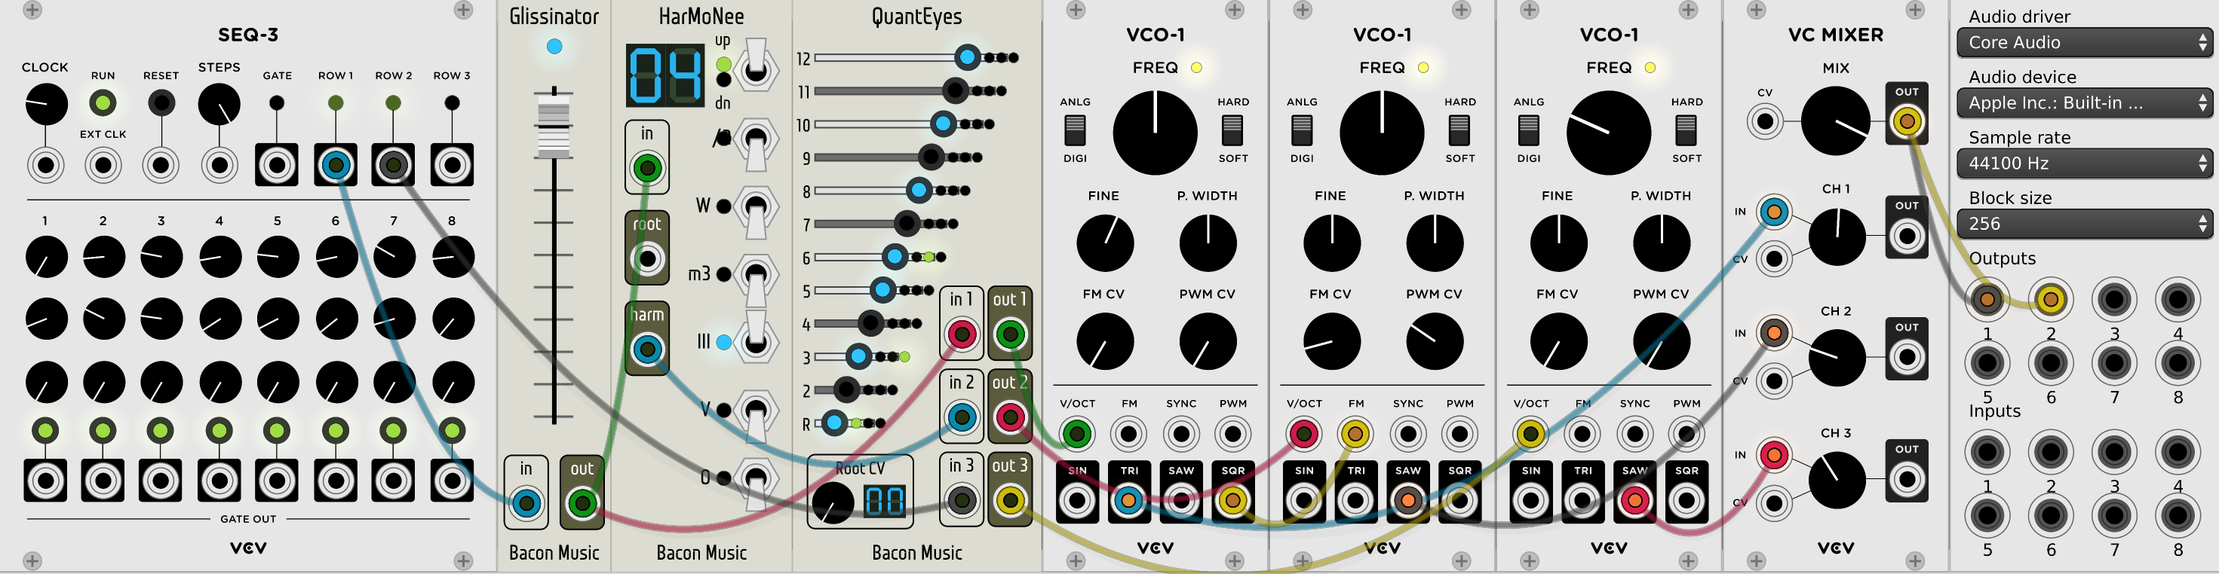
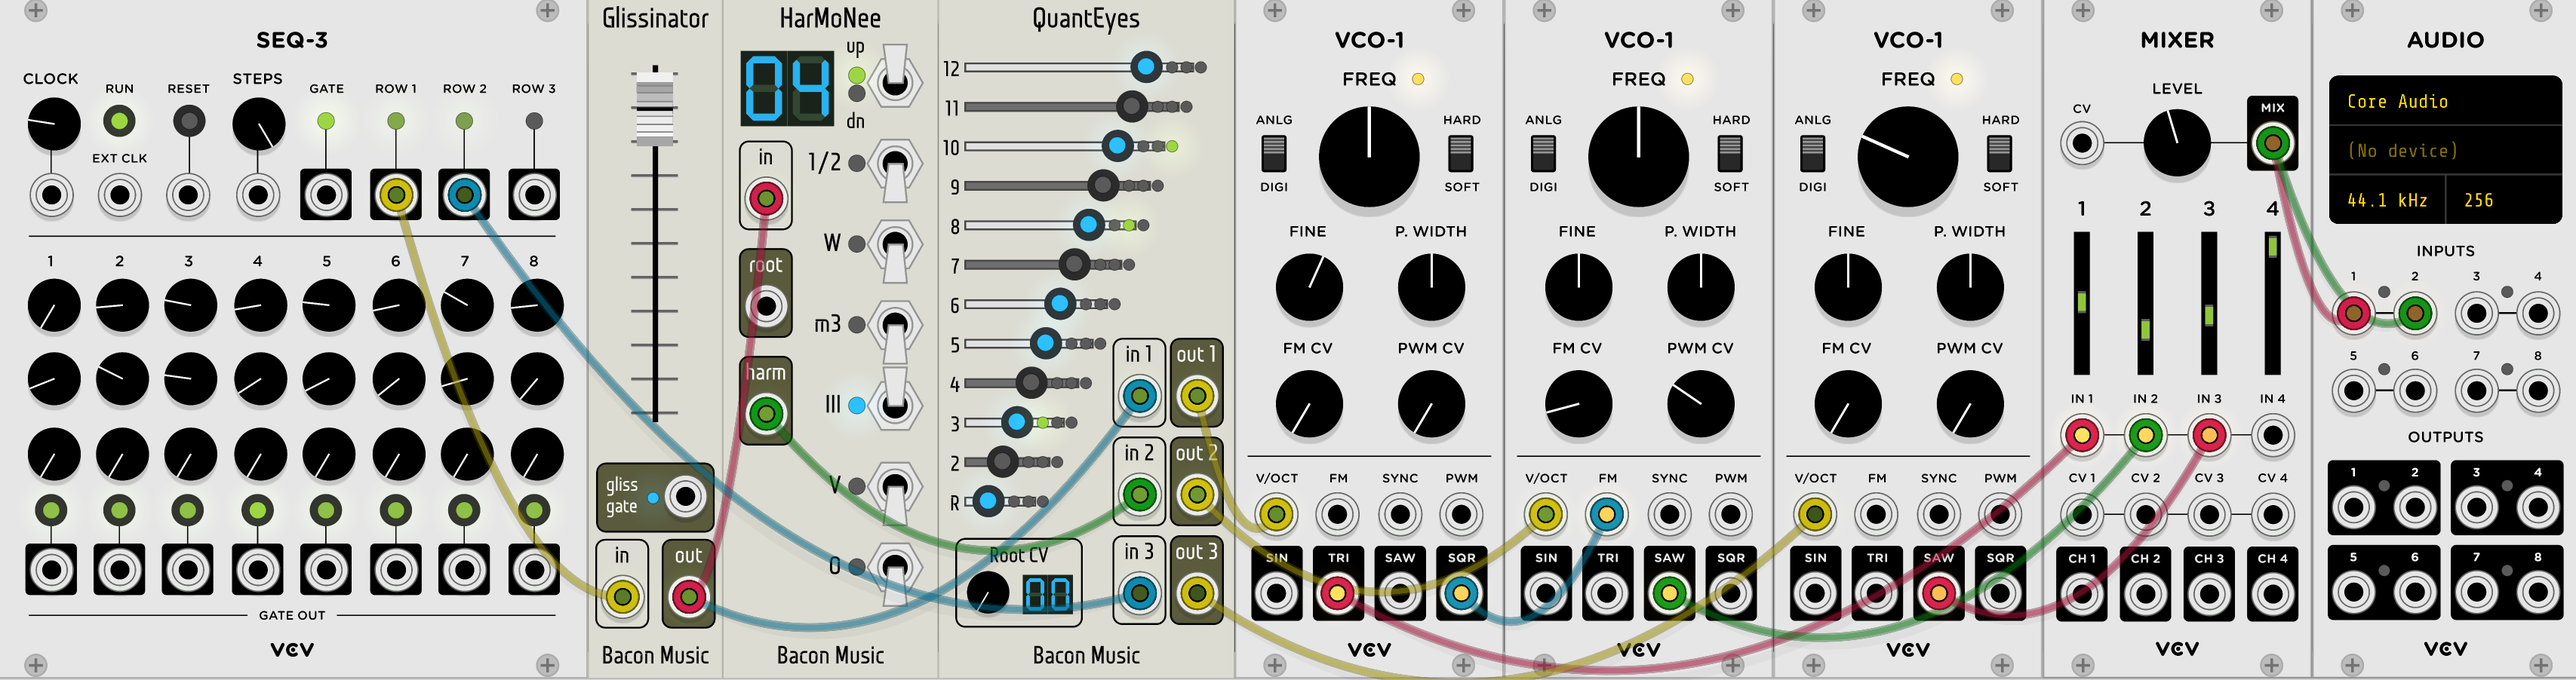
Added Gliss Gate to Glissinator; updated doc; updated BaconBackground class to give me the drawing tools I need

diff --git a/src/Components.cpp b/src/Components.cpp
@@ -19,16 +19,34 @@ std::map< std::string, int > InternalFontMgr::fontMap;
 
 struct InternalRoundedBorder : virtual TransparentWidget
 {
+  bool doFill;
+  NVGcolor fillColor;
+
+  InternalRoundedBorder( Vec pos, Vec sz, NVGcolor fc )
+  {
+    box.pos = pos;
+    box.size = sz;
+    doFill = true;
+    fillColor = fc;
+  }
+
   InternalRoundedBorder( Vec pos, Vec sz )
   {
     box.pos = pos;
     box.size = sz;
+    doFill = false;
   }
 
   void draw( NVGcontext *vg ) override
   {
     nvgBeginPath( vg );
     nvgRoundedRect( vg, 0, 0, box.size.x, box.size.y, 5 );
+    if( doFill )
+      {
+        nvgFillColor( vg, fillColor );
+        nvgFill( vg );
+      }
+        
     nvgStrokeColor( vg, COLOR_BLACK );
     nvgStroke( vg );
   }
@@ -40,13 +58,9 @@ struct InternalTextLabel : virtual TransparentWidget
   std::string label;
   int pxSize;
   int align;
-  InternalTextLabel( Vec pos, const char* lab, int px ) : label( lab ), pxSize( px )
-  {
-    align = NVG_ALIGN_CENTER | NVG_ALIGN_MIDDLE;
-    box.pos = pos;
-  }
+  NVGcolor color;
 
-  InternalTextLabel( Vec pos, const char* lab, int px, int al ) : label( lab ), pxSize( px ), align( al )
+  InternalTextLabel( Vec pos, const char* lab, int px, int al, NVGcolor col ) : label( lab ), pxSize( px ), align( al ), color( col )
   {
     box.pos = pos;
   }
@@ -58,7 +72,7 @@ struct InternalTextLabel : virtual TransparentWidget
     nvgBeginPath( vg );
     nvgFontFaceId( vg, memFont );
     nvgFontSize( vg, pxSize );
-    nvgFillColor( vg, COLOR_BLACK );
+    nvgFillColor( vg, color );
     nvgTextAlign( vg, align );
     nvgText( vg, 0, 0, label.c_str(), NULL );
   }
@@ -203,9 +217,9 @@ void InternalPlugLabel::draw( NVGcontext *vg )
 
 
 
-BaconBackground *BaconBackground::addLabel( Vec pos, const char* lab, int px, int align )
+BaconBackground *BaconBackground::addLabel( Vec pos, const char* lab, int px, int align, NVGcolor col )
 {
-  addChild( new InternalTextLabel( pos, lab, px, align ) );
+  addChild( new InternalTextLabel( pos, lab, px, align, col ) );
   return this;
 }
 
@@ -218,6 +232,12 @@ BaconBackground *BaconBackground::addPlugLabel( Vec plugPos, LabelAt l, LabelSty
 BaconBackground *BaconBackground::addRoundedBorder( Vec pos, Vec sz )
 {
   addChild( new InternalRoundedBorder( pos, sz ) );
+  return this;
+}
+
+BaconBackground *BaconBackground::addRoundedBorder( Vec pos, Vec sz, NVGcolor fill )
+{
+  addChild( new InternalRoundedBorder( pos, sz, fill ) );
   return this;
 }
 

diff --git a/src/Glissinator.cpp b/src/Glissinator.cpp
@@ -15,7 +15,7 @@ GlissinatorWidget::GlissinatorWidget( Glissinator<Module> *model ) : ModuleWidge
   // FIXME - spacing
   // addChild( new BaconHelpButton( "README.md#glissinator" ) );
   
-  ParamWidget *slider = ParamWidget::create< GraduatedFader< 255 > >( Vec( bg->cx( 29 ), 43 ),
+  ParamWidget *slider = ParamWidget::create< GraduatedFader< 230 > >( Vec( bg->cx( 29 ), 23 ),
                                                               module,
                                                               G::GLISS_TIME,
                                                               0,
@@ -37,8 +37,13 @@ GlissinatorWidget::GlissinatorWidget( Glissinator<Module> *model ) : ModuleWidge
   addOutput( Port::create< PJ301MPort >( outP, Port::OUTPUT,
                                          module,
                                          G::SLID_OUTPUT ) );
-  addChild( ModuleLightWidget::create< MediumLight< BlueLight > >( Vec( box.size.x/2 - 4.5 , 27 ),
+
+  bg->addRoundedBorder( Vec( 5, RACK_HEIGHT - 120 ), Vec( box.size.x - 10, 38 ), BaconBackground::highlight );
+  bg->addLabel( Vec( 10, RACK_HEIGHT - 102 ), "gliss", 11, NVG_ALIGN_LEFT | NVG_ALIGN_BOTTOM, COLOR_WHITE );
+  bg->addLabel( Vec( 10, RACK_HEIGHT - 90 ), "gate", 11, NVG_ALIGN_LEFT | NVG_ALIGN_BOTTOM, COLOR_WHITE );
+  addChild( ModuleLightWidget::create< SmallLight< BlueLight > >( Vec( bg->cx() - 4 , RACK_HEIGHT - 120 + 38 / 2 - 3 ),
                                                     module, G::SLIDING_LIGHT ) );
+  addOutput( Port::create< PJ301MPort >( Vec( bg->cx() + 5, RACK_HEIGHT - 114 ), Port::OUTPUT, module, G::GLISSING_GATE ) );
 }
 
 Model *modelGlissinator = Model::create<Glissinator<Module>,GlissinatorWidget>("Bacon Music", "Glissinator", "Glissinator", EFFECT_TAG); 

diff --git a/src/Components.hpp b/src/Components.hpp
@@ -236,15 +236,20 @@ struct BaconBackground : virtual TransparentWidget
 
   BaconBackground *addLabel( Vec pos, const char* lab, int px )
   {
-    return addLabel( pos, lab, px, NVG_ALIGN_CENTER | NVG_ALIGN_BOTTOM );
+    return addLabel( pos, lab, px, NVG_ALIGN_CENTER | NVG_ALIGN_BOTTOM, COLOR_BLACK );
   }
-  BaconBackground *addLabel( Vec pos, const char* lab, int px, int align );
+  BaconBackground *addLabel( Vec pos, const char* lab, int px, int align )
+  {
+    return addLabel( pos, lab, px, align, COLOR_BLACK );
+  }
+  BaconBackground *addLabel( Vec pos, const char* lab, int px, int align, NVGcolor col );
 
   BaconBackground *addPlugLabel( Vec plugPos, LabelStyle s, const char* ilabel ) {
     return addPlugLabel( plugPos, LabelAt::ABOVE, s, ilabel );
   }
   BaconBackground *addPlugLabel( Vec plugPos, LabelAt l, LabelStyle s, const char* ilabel );
   BaconBackground *addRoundedBorder( Vec pos, Vec sz );
+  BaconBackground *addRoundedBorder( Vec pos, Vec sz, NVGcolor fill );
 
   BaconBackground *addLabelsForHugeKnob( Vec topLabelPos, const char* knobLabel, const char* zeroLabel, const char* oneLabel, Vec &putKnobHere );
   BaconBackground *addLabelsForLargeKnob( Vec topLabelPos, const char* knobLabel, const char* zeroLabel, const char* oneLabel, Vec &putKnobHere );

diff --git a/src/Glissinator.hpp b/src/Glissinator.hpp
@@ -14,6 +14,7 @@ struct Glissinator : public TBase {
 
   enum OutputIds {
     SLID_OUTPUT,
+    GLISSING_GATE,
     NUM_OUTPUTS
   };
 
@@ -109,5 +110,6 @@ struct Glissinator : public TBase {
 
     lights[ SLIDING_LIGHT ].value = inGliss ? 1 : 0;
     outputs[ SLID_OUTPUT ].value = thisOut;
+    outputs[ GLISSING_GATE ].value = inGliss ? 10 : 0;
   }
 };

diff --git a/README.md b/README.md
@@ -51,7 +51,12 @@ Glissinator takes a control voltage which is undergoing change and smooths out t
 change with a linear glissando. It is not triggered by a gate, just by differences
 in the input CV. It never jumps discontinuously, so if the CV changes "target" value
 mid-gliss, the whole thing turns around. The slider will give you between 0 and 1 seconds
-of gliss time. Here's a sample patch.
+of gliss time. There is a gate output which is +10v when the module is glissing and
+0 when it isn't. Note that the Glissinator is a constant time gliss, not a constant
+slope gliss (which is what a slew limiter would do). A future version may have a switch
+to pick between the modes.
+
+Here's a sample patch.
 
 <a href="https://baconpaul.github.io/audio/Glissinator.mp3">
 <img src="docs/Glissinator.png" alt="ExampleQuanteyes Patch">

diff --git a/docs/release_notes/release_v0.6.2.md b/docs/release_notes/release_v0.6.2.md
@@ -16,10 +16,12 @@
 
 * Glissinator
   * Fixed a bug found by @alto777 where a rapid decrease in the shift time would lock the module
+  * Added a gate output for when you are in the gliss
   * Refactored to allow standalone tests of the stepper
 
 * I added a DMP Text Widget using Stewart C. Russell's Keypunch029 font (see README.md for license and links).
 * As well as a single digit, there's a multi digit sevent segment light. Take a look at ChipNoise for how to use it.
+* Background got some new features, like colored labels and filled rounded rects in the API
 
 
 (aspirational)
